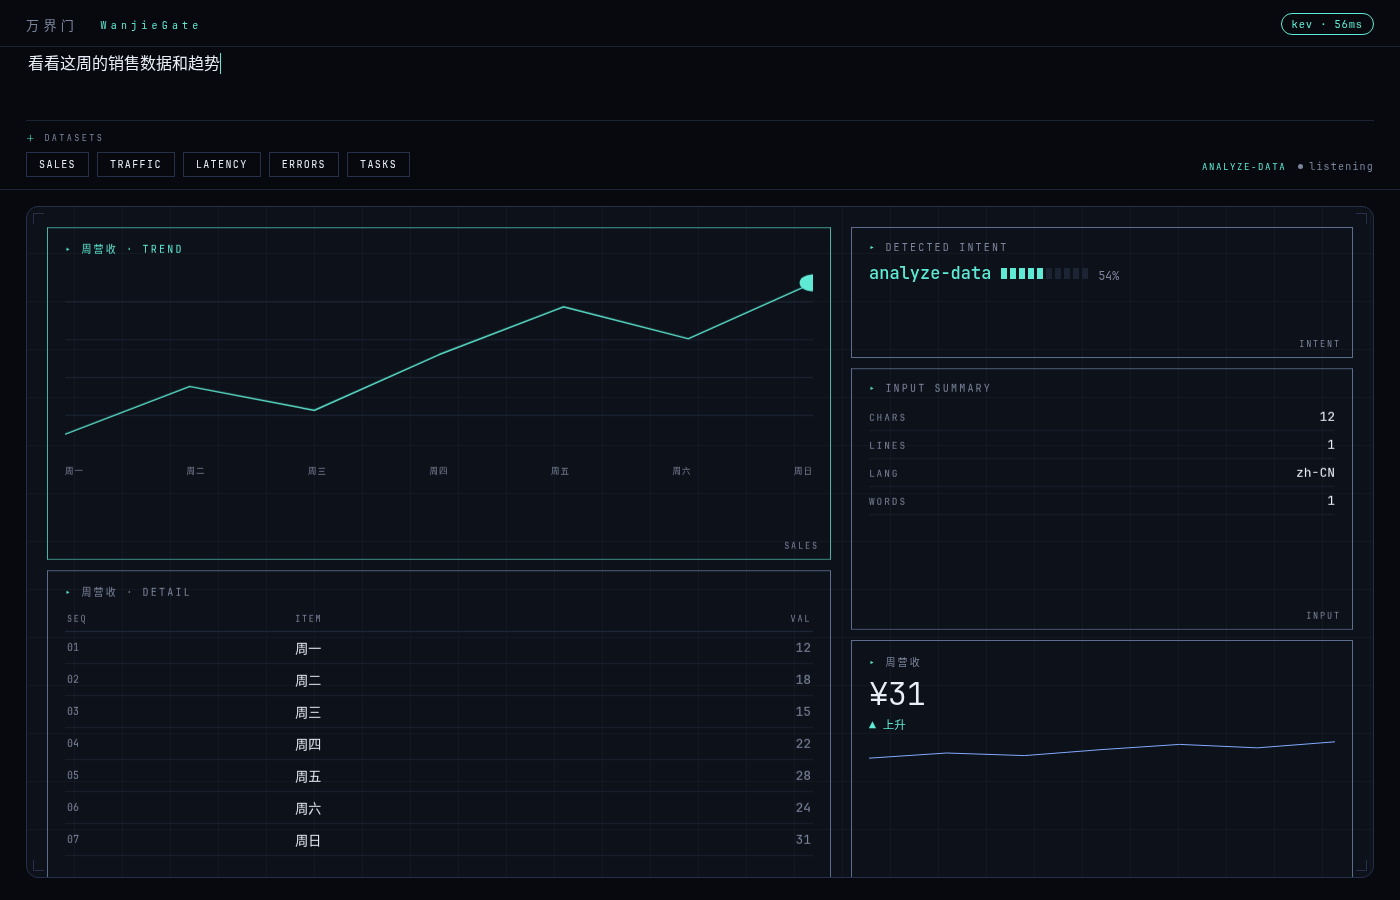
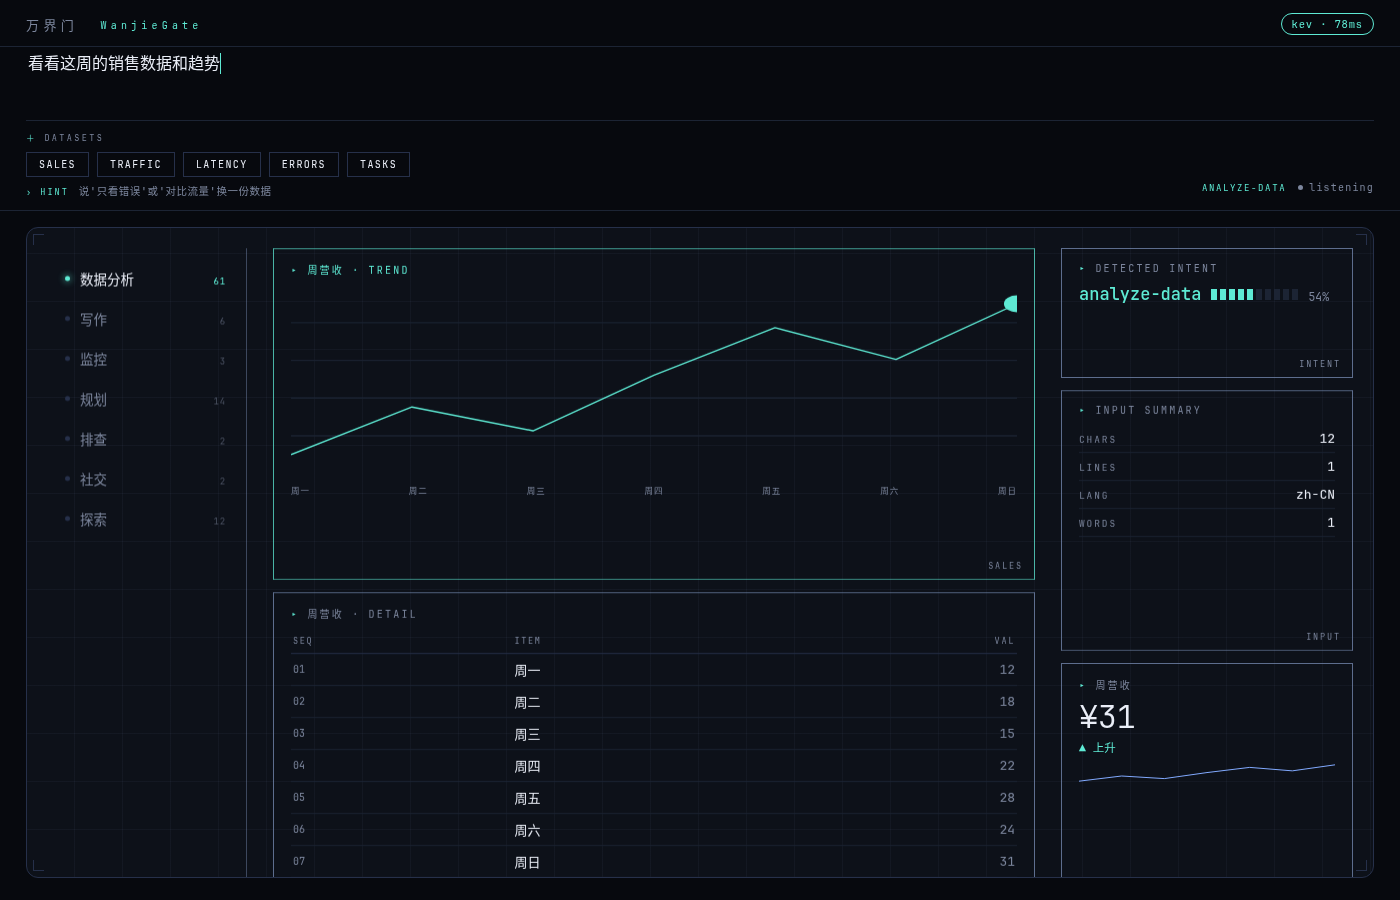
应用壳三栏版面 + 场景预设页 + 换页生命周期
- 布局换 X 式应用壳:nav 导航栏(200px)| main 主列 | side 信息列(292px),
  导航高亮当前意图并实时显示各意图概率;窄屏退回单列+横向导航
- manifest.scenes:每意图一个预设页(attach 兜底 + hints 序列),
  #hint 逐层披露——未定露第一条,已定露下一条
- 页面生命周期:committed 意图切换=换页,旧卡错峰退(i*30ms)、
  新卡错峰进(140ms+i*45ms),经 c.delay 接入弹簧
- docs/decision-pipeline.md:全部路径/阈值/问题集盘点
- 自测新增:导航栏在场、高亮意图、nav<main<side 三栏顺序

Generated with [Devin](https://devin.ai)

diff --git a/static/app.js b/static/app.js
@@ -15,10 +15,11 @@ const STRIP_H = 54;
 const EASE = "cubic-bezier(.22,1.2,.3,1)";
 
 let manifest = null;
-let cards = new Map();      // id -> {el, m, target, prob, bound, rect, applied}
+let cards = new Map();      // id -> {el, m, target, prob, bound, rect, applied, delay}
 let layoutMode = "empty", densityCap = 1, emphasis = "none";
 let intent = {choice: "explore", confidence: 0};
 let committed = false;      // 意图已定:摘幽灵态,卡片直奔实体
+let sceneId = null;         // 当前已定场景的页面 id(= 已承诺意图)
 const COMMIT_MARGIN_IN = 0.30, COMMIT_MARGIN_OUT = 0.15;   // 意图判定走"头两名差距",比归一化置信度对小模型更稳
 let latestText = "", seq = 0, inflight = null;
 let dirty = {layout: true, debug: true};
@@ -82,18 +83,24 @@ function applyAnswers(a) {
     const ps = Object.values(intent.probabilities || {}).sort((x, y) => y - x);
     const margin = (ps[0] || 0) - (ps[1] || 0);
     committed = intent.choice !== "explore" && margin >= (committed ? COMMIT_MARGIN_OUT : COMMIT_MARGIN_IN);
-    renderCard("intent-chip"); renderCard("action-bar");
+    renderCard("intent-chip"); renderCard("action-bar"); renderCard("nav-rail");
   }
   if (a.layout) layoutMode = a.layout.choice;
   if (a.density) densityCap = [0, 2, 4, 7, 10][Math.round(a.density.score)] ?? 4;
   if (a.emphasis) emphasis = a.emphasis.choice;
-  { // 附件:取 noul 概率最高的素材类型,>0.3 才显示
+  const scene = manifest.scenes?.[intent.choice] || {};
+  { // 附件:模型 argmax (>0.3);未定时不兜底,已定时退回场景预设——每页都有成熟配套
     let best = "none", bp = 0;
     for (const ctx of Object.keys(manifest.attachments || {})) {
       const p = a["att_" + ctx]?.noul ?? 0;
       if (p > bp) { bp = p; best = ctx; }
     }
-    setAttach(bp > 0.3 ? best : "none");
+    setAttach(bp > 0.3 ? best : (committed ? scene.attach || "none" : "none"));
+  }
+  { // 场景提示词逐层披露:未定只露第一条(幽灵),已定露下一条(更深引导)
+    const hints = scene.hints || [];
+    const hint = intent.choice === "explore" ? "" : (hints[committed ? 1 : 0] || hints[0] || "");
+    setHint(hint, !committed);
   }
   if (a.intent) {
     $("#mode").textContent = committed ? intent.choice : "";
@@ -103,6 +110,7 @@ function applyAnswers(a) {
   const probs = {};
   for (const id of Object.keys(manifest.components))
     probs[id] = a["vis_" + id]?.noul ?? 0;
+  probs["nav-rail"] = Math.max(probs["nav-rail"] ?? 0, latestText.trim() ? 0.6 : 0);  // 应用壳随内容常驻
   // 布局容量裁剪:非 pin 组件按概率排序放行前 N 个;pin 组件(alert/HUD)只过幽灵阈值
   const cap = {empty: 0, focus: 1, split: 4, dashboard: 9}[layoutMode] ?? 4;
   const limit = Math.min(cap, densityCap);
@@ -118,6 +126,16 @@ function applyAnswers(a) {
   }
   for (const [id, c] of Object.entries(manifest.components))
     if (c.bind && a["bind_" + id]) setBinding(id, a["bind_" + id].choice);
+  // 页面生命周期:已承诺意图切换 = 换页。旧场景卡片错峰退场,新场景错峰进场
+  const newScene = committed ? intent.choice : null;
+  if (newScene && newScene !== sceneId) {
+    let eo = 0, io = 0;
+    for (const c of cards.values()) {
+      if (c.target === 0 && c.m > 0.05) c.delay = (eo++) * 0.03;
+      else if (c.target > 0 && c.m < 0.5) c.delay = 0.14 + (io++) * 0.045;
+    }
+  }
+  sceneId = newScene;
   dirty.layout = dirty.debug = true;
 }
 
@@ -134,9 +152,17 @@ function setBinding(id, key) {
   if (c && c.bound !== key && manifest.datasets[key]) { c.bound = key; renderCard(id); }
 }
 
-/* ---------- 输入框的自适应附件 ---------- */
-const attachEl = document.getElementById("attach");
+/* ---------- 输入框的自适应附件 + 场景提示 ---------- */
+const attachEl = document.getElementById("attach"), hintEl = document.getElementById("hint");
 let attachCtx = "";
+function setHint(text, ghost) {
+  const on = !!text;
+  if ((hintEl.dataset.t || "") !== (text || ""))
+    hintEl.innerHTML = on ? `<b>hint</b><span>${esc(text)}</span>` : "";
+  hintEl.dataset.t = text || "";
+  hintEl.classList.toggle("on", on);
+  hintEl.style.opacity = on ? (ghost ? .45 : 1) : 0;
+}
 function setAttach(ctx) {
   if (ctx === attachCtx) { attachEl.style.opacity = committed ? 1 : .5; return; }
   attachCtx = ctx;
@@ -185,7 +211,7 @@ function mount(id) {
   const el = document.createElement("div");
   el.className = "card"; el.dataset.id = id;
   stage.appendChild(el);
-  const c = {id, el, m: 0, target: 0, prob: 0, bound: defaultBinding(id), rect: null, applied: ""};
+  const c = {id, el, m: 0, target: 0, prob: 0, bound: defaultBinding(id), rect: null, applied: "", delay: 0};
   cards.set(id, c); renderCard(id);
   dirty.layout = true;
   return c;
@@ -196,17 +222,17 @@ function defaultBinding(id) {
   return b ? Object.keys(b.options)[0] : null;
 }
 
-/* ---------- 空间分划:留白 + 主附分区 ----------
- * 顶/底条带与中部主区/侧栏之间留 16-20px 空白;组内区域间 10px;
- * 每条边界都是独立的描边矩形,线不互相连接。
+/* ---------- 应用壳分栏:nav | main | side ----------
+ * 固定三栏(X 式应用版面):左导航栏、中主列、右信息列;
+ * 顶/底条带横贯全宽;栏内卡片按 minH 权重铺满;窄屏退回单列。
  */
-const PAD = 20, GUT = 20, GAP = 14, GAP_IN = 10;
+const PAD = 20, GAP = 14, GAP_IN = 12, COL_GAP = 26;
+const NAV_W = 200, SIDE_W = 292;
 function zoneOf(id) {
-  if (id === "alert-banner") return "top";
-  if (id === "action-bar") return "bottom";
+  const z = manifest.components[id].zone;
+  if (z === "nav" || z === "top" || z === "bottom") return z;
   if (id === emphasis) return "main";
-  const d = manifest.components[id];
-  return (d.minH >= 3 || d.span >= 6) ? "main" : "rail";
+  return z || "main";
 }
 
 function pack() {
@@ -216,9 +242,10 @@ function pack() {
     .sort((a, b) => order.indexOf(a.id) - order.indexOf(b.id));
   const tops  = vis.filter(c => zoneOf(c.id) === "top");
   const bots  = vis.filter(c => zoneOf(c.id) === "bottom");
-  const mains = vis.filter(c => zoneOf(c.id) === "main");
-  const rails = vis.filter(c => zoneOf(c.id) === "rail");
-  const Wi = W - PAD * 2, Hi = H - PAD * 2;
+  const navs  = vis.filter(c => zoneOf(c.id) === "nav");
+  let mains   = vis.filter(c => zoneOf(c.id) === "main");
+  let sides   = vis.filter(c => zoneOf(c.id) === "side");
+  const Wi = W - PAD * 2;
 
   let y = PAD;
   for (const c of tops) { c.rect = {x: PAD, y, w: Wi, h: STRIP_H}; y += STRIP_H + GAP; }
@@ -226,13 +253,7 @@ function pack() {
   for (const c of bots) { by -= STRIP_H; c.rect = {x: PAD, y: by, w: Wi, h: STRIP_H}; by -= GAP; }
   const midY = y, midH = Math.max(0, by - midY);   // 条带循环里已含间隔
 
-  const narrow = Wi < 720;
-  let mainW = Wi;
-  if (mains.length && rails.length && !narrow)
-    mainW = Math.round(Wi * (layoutMode === "split" ? 0.52 : 0.60));
-  else if (!mains.length) mainW = 0;
-
-  // 一列区域内按 minH 权重铺满,组内 10px 间隔,最后一个吃掉舍入余量
+  // 一列区域内按 minH 权重铺满,组内 12px 间隔,最后一个吃掉舍入余量
   const stack = (list, x0, w, y0, h) => {
     const tot = list.reduce((s, c) => s + (manifest.components[c.id].minH || 1), 0);
     let cy = y0;
@@ -243,11 +264,22 @@ function pack() {
       cy += ch + GAP_IN;
     });
   };
-  if (narrow) stack([...mains, ...rails], PAD, Wi, midY, midH);
-  else {
-    if (mains.length) stack(mains, PAD, mainW, midY, midH);
-    if (rails.length) stack(rails, mains.length ? PAD + mainW + GUT : PAD, mains.length ? Wi - mainW - GUT : Wi, midY, midH);
+
+  const narrow = Wi < 980;
+  if (narrow) {                                     // 窄屏:导航变横条,侧列并入主列
+    for (const c of navs) { c.el.classList.add("flat"); c.rect = {x: PAD, y, w: Wi, h: 46}; y += 46 + GAP_IN; }
+    stack([...mains, ...sides], PAD, Wi, y, Math.max(0, by - y));
+    return;
   }
+  for (const c of navs) c.el.classList.remove("flat");
+
+  let x = PAD;
+  if (navs.length) { stack(navs, x, NAV_W, midY, midH); x += NAV_W + COL_GAP; }
+  if (!mains.length) { mains = sides; sides = []; } // 主列空时侧列内容进主列
+  const sideW = sides.length ? SIDE_W : 0;
+  const mainW = Wi - (x - PAD) - sideW - (sides.length ? COL_GAP : 0);
+  if (mains.length) stack(mains, x, mainW, midY, midH);
+  if (sides.length) stack(sides, x + mainW + COL_GAP, sideW, midY, midH);
 }
 
 /* ---------- 渲染循环 ---------- */
@@ -256,8 +288,11 @@ function tick(now) {
   const dt = Math.min(0.05, (now - last) / 1000); last = now;
   if (dirty.layout) { pack(); dirty.layout = false; }
   for (const c of [...cards.values()]) {
-    const tau = c.target > c.m ? TAU_IN : TAU_OUT;
-    c.m += (c.target - c.m) * (1 - Math.exp(-dt / tau));
+    if (c.delay > 0) c.delay -= dt;                 // 场景切换的错峰调度
+    else {
+      const tau = c.target > c.m ? TAU_IN : TAU_OUT;
+      c.m += (c.target - c.m) * (1 - Math.exp(-dt / tau));
+    }
     if (c.target === 0 && c.m < MOUNT_P) { c.el.remove(); cards.delete(c.id); dirty.layout = true; continue; }
     const r = c.rect; if (!r) continue;
     const m = c.m, lift = 1 - m;
@@ -287,7 +322,10 @@ function tick(now) {
     c.el.classList.toggle("ghost", ghosting);
     c.el.classList.toggle("emph", c.id === emphasis && !ghosting);
     // 边界线随 m 拉出:幽灵=虚线轮廓;实体=发丝线(强调区用 accent)
-    if (ghosting) {
+    if (c.id === "nav-rail") {                      // 导航栏是壳的一部分:只有右缘发丝线
+      c.el.style.outline = "none"; c.el.style.boxShadow = "none";
+      c.el.style.borderRight = `1px ${ghosting ? "dashed" : "solid"} rgba(120,140,180,${(m * (ghosting ? 0.55 : 0.45)).toFixed(3)})`;
+    } else if (ghosting) {
       c.el.style.boxShadow = "none";
       c.el.style.outline = `1px dashed rgba(120,140,190,${(m * 0.85).toFixed(3)})`;
       c.el.style.outlineOffset = "-4px";
@@ -317,6 +355,14 @@ function renderCard(id) {
   const lines = t.split("\n").map(s => s.trim()).filter(Boolean);
   const first = lines[0] || "", lastLine = lines[lines.length - 1] || "";
   switch (id) {
+    case "nav-rail": {
+      const labels = manifest.questions.intent.labels || {};
+      const probs = intent.probabilities || {};
+      el.innerHTML = `<div class="nav-list">${Object.entries(labels).map(([k, zh]) =>
+        `<div class="ni ${k === intent.choice ? "on" : ""}"><i></i><span>${esc(zh)}</span><b>${Math.round((probs[k] || 0) * 100)}</b></div>`).join("")}
+        </div><div class="rail-foot">nav · kev</div>`;
+      break;
+    }
     case "intent-chip": {
       const seg = Array.from({length: 10}, (_, i) =>
         `<i class="${i < Math.round(intent.confidence * 10) ? "on" : ""}"></i>`).join("");
@@ -450,9 +496,10 @@ function renderDebug() {
 }
 
 function clearScene() {
-  committed = false; layoutMode = "empty";
+  committed = false; layoutMode = "empty"; sceneId = null;
   intent = {choice: "explore", confidence: 0};
   setAttach("none"); attachCtx = "";
+  setHint("");
   attachEl.innerHTML = ""; attachEl.classList.remove("on");
   $("#mode").textContent = "";
   input.placeholder = manifest.prompts?.explore || "";

diff --git a/static/styles.css b/static/styles.css
@@ -76,6 +76,28 @@ header {
 .a-head { font-size: 8.5px; letter-spacing: .28em; text-transform: uppercase; color: var(--dim); margin-bottom: 8px; }
 .a-head::before { content: "＋ "; color: var(--cm, var(--accent)); }
 .a-row b.who { color: hsl(var(--h), 60%, 65%); min-width: 40px; }
+
+/* ---------- 场景提示词(逐层披露) ---------- */
+#hint { max-height: 0; overflow: hidden; opacity: 0; font-size: 10.5px; letter-spacing: .05em; color: var(--dim);
+  transition: max-height .5s cubic-bezier(.22,1.1,.3,1), opacity .4s, margin-top .5s; }
+#hint.on { max-height: 30px; margin-top: 6px; }
+#hint b { font-weight: 400; font-size: 8.5px; letter-spacing: .24em; text-transform: uppercase; color: var(--cm, var(--accent)); margin-right: 10px; }
+#hint b::before { content: "› "; }
+
+/* ---------- 应用导航栏 ---------- */
+.card[data-id="nav-rail"] { padding: 10px 0; }
+.nav-list { display: flex; flex-direction: column; }
+.ni { display: flex; align-items: baseline; gap: 10px; padding: 10px 20px 10px 18px; font-size: 13.5px; color: var(--dim); }
+.ni i { width: 5px; height: 5px; border-radius: 50%; background: var(--hair); align-self: center; flex: none; transition: background .3s; }
+.ni b { margin-left: auto; font-weight: 400; font-size: 9px; letter-spacing: .1em; color: var(--dim); opacity: .55; }
+.ni.on { color: var(--text); }
+.ni.on i { background: var(--cm, var(--accent)); box-shadow: 0 0 7px var(--cm, var(--accent)); }
+.ni.on b { color: var(--cm, var(--accent)); opacity: 1; }
+.rail-foot { position: absolute; bottom: 12px; left: 18px; font-size: 8.5px; letter-spacing: .26em; text-transform: uppercase; color: var(--dim); }
+.card[data-id="nav-rail"].flat { padding: 6px 0; }
+.card[data-id="nav-rail"].flat .nav-list { flex-direction: row; overflow: hidden; }
+.card[data-id="nav-rail"].flat .ni { padding: 6px 12px; font-size: 11.5px; }
+.card[data-id="nav-rail"].flat .ni b, .card[data-id="nav-rail"].flat .rail-foot { display: none; }
 .a-photos { display: flex; gap: 8px; }
 .a-ph { width: 88px; height: 62px; flex: none; position: relative; overflow: hidden;
   background: linear-gradient(150deg, hsl(var(--h), 30%, 22%), hsl(var(--h), 45%, 12%));

diff --git a/static/index.html b/static/index.html
@@ -19,6 +19,7 @@
       placeholder="随便说点什么——页面会随着你的话自己长出来。"></textarea>
     <div id="pulse"><span id="mode"></span><span id="pulse-dot"></span><span id="pulse-text">listening</span></div>
     <div id="attach"></div>
+    <div id="hint"></div>
   </section>
 
   <section id="stage" aria-live="polite">

diff --git a/tools/selftest.py b/tools/selftest.py
@@ -58,6 +58,16 @@ with sync_playwright() as pw:
     assert chart["t"] == 1.0, f"意图确定后高概率卡应实体化到 t=1(got {chart})"
     alert = next((c for c in cards if c["id"] == "alert-banner"), None)
     assert not alert or alert["t"] == 0, f"纯销售语境已判定,弱 alert(p~0.2)应退场(got {alert})"
+    # 应用壳:导航栏在场且高亮当前意图;三栏 nav < main < side
+    assert "nav-rail" in [c["id"] for c in cards], "应用壳应有导航栏"
+    nav_on = page.eval_on_selector('.card[data-id="nav-rail"] .ni.on span', "e => e.textContent") if page.locator('.card[data-id="nav-rail"] .ni.on').count() else None
+    print(f"  nav-on={nav_on}")
+    assert nav_on == "数据分析", f"导航应高亮当前意图(got {nav_on})"
+    nx = page.locator('.card[data-id="nav-rail"]').bounding_box()["x"]
+    cx = page.locator('.card[data-id="chart-card"]').bounding_box()["x"]
+    sx = page.locator('.card[data-id="intent-chip"]').bounding_box()["x"]
+    assert nx < cx < sx, f"三栏顺序应 nav < main < side({nx},{cx},{sx})"
+    assert page.locator("#hint.on").count() or True  # 提示词有则露,不强制
 
     # 3) 追加 alert 语境 → banner 应顶行出现
     page.keyboard.type("，等等,错误率也飙升了")

diff --git a/docs/decision-pipeline.md b/docs/decision-pipeline.md
@@ -1,0 +1,89 @@
+# WanjieGate 决策管线全景
+
+两个时钟解耦:**渲染循环 60fps**(本地,永远流畅)与**决策循环 ~3Hz**(KEV 一次前向传播,实测 57–191ms)。KEV 只产出"目标态",屏幕上所有运动由本地弹簧完成。
+
+## 1. 输入路径
+
+```
+textarea input 事件
+  → latestText = value
+  → #app.classList.toggle("idle", 空?)
+  → 空: clearScene() 全量复位,不再问模型
+  → 非空: 本地派生卡即时刷新(summary/note/timeline/alert 文本类)
+  → debounce 320ms → decide()
+```
+
+`decide()`: `seq++` 帧序号 → `inflight.abort()` 取消上一帧 → mock 或真 KEV → 回来先比 `seq`,旧帧直接丢弃。
+
+## 2. 决策源(两条,可互换)
+
+- **真实**: `POST {baseUrl}/v1/systemone`,body = `{state, model, questions}`。state 含 `role/note/user_text_so_far/currently_visible`。
+- **Mock**: `?mock=1` → `mockDecide()` 用关键词正则伪造同构 answers,无 GPU 时调手感用。
+
+## 3. 问题集(每帧一次前向传播,目前 ~25 题)
+
+| 问题 | 类型 | 作用 |
+|---|---|---|
+| `intent` | choice(7) | 意图:analyze-data / write-document / monitor-status / plan-work / report-issue / check-social / explore |
+| `layout` | choice(4) | empty / focus / split / dashboard → 容量上限 |
+| `density` | score(0–4) | → densityCap = [0,2,4,7,10] |
+| `emphasis` | choice | 强调卡 id → 强制进主列 + accent 描边 |
+| `vis_<id>` | noul ×12 | 每个组件"该显示吗"的独立概率 |
+| `bind_<id>` | choice ×4 | chart/table/metric/hero 绑哪份数据集 |
+| `att_<ctx>` | noul ×7 | 附件:photos/news/logs/tasks/datasets/moments/services |
+
+## 4. 判定标准(applyAnswers 里的全部阈值)
+
+| 常量 | 值 | 含义 |
+|---|---|---|
+| `COMMIT_MARGIN_IN` | 0.30 | 意图头两名概率差 ≥0.30 → **已知意图**(committed) |
+| `COMMIT_MARGIN_OUT` | 0.15 | 滞后带:差距跌回 0.15 才退回未定 |
+| `GHOST_LO` | 0.15 | 显隐概率的入场门槛(幽灵态) |
+| `SOLID` | 0.55 | 已定时实体化的最低概率;也是幽灵/实体分界线 |
+| `MOUNT_P` | 0.03 | 挂载/卸载阈值 |
+| attach argmax | >0.3 | 附件题头名 >0.3 才显示;已定时退回场景预设 `scene.attach` |
+
+**承诺语义**:未定 → `target = p`(概率即透明度,幽灵层);已定 → `p>=SOLID` 才 `target=1`,其余退场。`pin` 组件(nav-rail/intent-chip/alert-banner)绕过布局容量裁剪。nav-rail 另有壳保底 `p = max(model, 0.6)`。
+
+## 5. 布局路径(pack,每次 dirty 重算)
+
+```
+top 条带(alert-banner)    全宽 × 54px
+bottom 条带(action-bar)   全宽 × 54px
+nav 列(nav-rail)         200px,右缘发丝线
+main 列(主内容)          剩余宽度,组内 12px 间隔
+side 列(信息卡)          292px
+主列为空 → side 内容并入主列;Wi<980 → 单列+导航变横条
+栏内按 minH 权重铺满高度
+```
+
+## 6. 渲染路径(tick,每帧)
+
+- `c.delay > 0` → 只扣 delay(场景错峰调度),不积分
+- 否则弹簧 `m += (target-m)·(1-e^{-dt/τ})`,进场 τ=0.16s / 退场 τ=0.5s(不对称:进快出慢)
+- `m<0.03` 且 target=0 → 卸载 DOM
+- 位置宽高走 CSS transition(.48s);transform/clip-path/opacity 每帧直写
+- 进场方式按组件 `enter`:wipe=横向扫入 / zoom=缩放 / spring=上浮弹簧 / ghost=缓升
+- 模糊只属于运动:`|target-m|>0.015` 才 blur,静止必锐利
+- 幽灵 = 虚线轮廓;实体 = 发丝描边(强调区 accent 色);`--co=m^1.5` 让字比线慢半拍出现
+
+## 7. 输入框自身也是状态
+
+- `data-cmode` = 意图头名(即时,不等承诺):caret/mode/pulse 变色;write-document 长高+衬线字体;plan-work 微增
+- `placeholder` 随场景换文案(`manifest.prompts`)
+- `#mode` 标签 = 已承诺意图
+- `#attach` 附件区 = `att_*` argmax 或场景预设
+- `#hint` 逐层披露:未定露 `hints[0]`(半透明),已定露 `hints[1]`
+
+## 8. 页面生命周期
+
+- 已承诺意图变化 = 换页(`sceneId` 跟踪)
+- 旧场景卡:target→0,错峰 delay `i*30ms` 退场
+- 新场景卡:delay `140ms + i*45ms` 错峰进场
+- 清空 → `clearScene()`:committed/sceneId/attach/hint/mode/cmode/placeholder/卡片 p·target 全复位
+
+## 9. 其他路径
+
+- **重绑**: `.a-chip` 点击 → `__rebind(key)` → 所有可绑组件 `setBinding` → 重渲染(不换数据语义)
+- **调试**: `` ` `` 键开 `#debug` 面板(每卡 p→m 实时条);`dataset.p/target` 供自测断言
+- **自测**: `tools/selftest.py`(Playwright)7 个阶段断言 + `.ai/shots/` 截图
